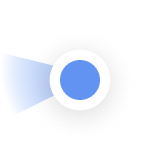
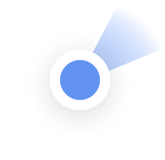
Update contact layout and animations: switch text/marker order, add -3% letter spacing, update location marker animation to 30° rotation, 2 rotations

Changed region(s): [[0.0625, 0.0938, 0.9375, 0.6875]]

diff --git a/codepen-animation.js b/codepen-animation.js
@@ -41,7 +41,7 @@ document.addEventListener('DOMContentLoaded', function() {
     });
   });
 
-  // Hero Right Animation - starts after hero titles
+  // Hero Right Animation - starts at the same time as hero titles
   const heroRight = document.querySelector('.hero .hero-right');
   if (heroRight) {
     // Get the hero-right elements
@@ -55,17 +55,45 @@ document.addEventListener('DOMContentLoaded', function() {
       y: 50
     });
     
-    // Calculate total duration of hero titles animation
-    const totalTitleDuration = heroTitles.length * 0.5 + 0.7; // delay + duration
-    
-    // Animate hero-right elements after titles complete
+    // Animate hero-right elements at the same time as titles
     gsap.to([heroAvatars, heroServicesText, heroEmailLink], {
       opacity: 1,
       y: 0,
       duration: 0.8,
       ease: "power2.out",
       stagger: 0.2,
-      delay: totalTitleDuration + 0.05 // Start 0.05s after titles finish
+      delay: 0 // Start immediately with titles
+    });
+  }
+
+  // Scroll-triggered Contact Section Animation - same as hero-right
+  const contactSection = document.querySelector('.contact');
+  if (contactSection) {
+    // Get the contact elements
+    const contactEmail = contactSection.querySelector('.contact-email');
+    const contactLocation = contactSection.querySelector('.contact-location');
+    
+    // Set initial state - hidden and below (same as hero-right)
+    gsap.set([contactEmail, contactLocation], {
+      opacity: 0,
+      y: 50
+    });
+    
+    // Animate contact elements when scrolled into view
+    gsap.to([contactEmail, contactLocation], {
+      opacity: 1,
+      y: 0,
+      duration: 0.8,
+      ease: "power2.out",
+      stagger: 0.2,
+      scrollTrigger: {
+        trigger: contactSection,
+        start: "top 80%", // Start when top of contact section is 80% up the viewport
+        onEnter: () => console.log('📧 Contact section entered viewport - starting animation!'),
+        onLeave: () => console.log('👋 Contact section left viewport'),
+        onEnterBack: () => console.log('📧 Contact section re-entered viewport'),
+        onLeaveBack: () => console.log('👋 Contact section left viewport (scrolling up)')
+      }
     });
   }
 
@@ -85,12 +113,13 @@ document.addEventListener('DOMContentLoaded', function() {
     console.log('🎬 Setting up 3pm rotation animation...');
     
     gsap.to(locationMarker, {
-      rotation: 90, // Rotate to 3pm position
+      rotation: 30, // Rotate to 30 degrees
       duration: 3,
       ease: "power2.inOut",
       yoyo: true,
-      repeat: -1,
-      onStart: () => console.log('🔄 3pm rotation animation started!')
+      repeat: 1, // Rotate 2 times (1 repeat = 2 total rotations)
+      onStart: () => console.log('🔄 30° rotation animation started!'),
+      onComplete: () => console.log('✅ Location marker animation completed!')
     });
     
     console.log('🎬 Animation setup complete!');

diff --git a/styles.css b/styles.css
@@ -21,20 +21,7 @@ body {
 
 img, svg { display: block; max-width: 100%; }
 
-/* Header */
-.site-header {
-  height: 80px;
-  display: flex;
-  align-items: center;
-  padding-top: 40px;
-  display: none;
-}
-.header-content {
-  display: flex;
-  flex-direction: column;
-  align-items: flex-start;
-  gap: 0rem;
-}
+
 
 
 .container {
@@ -223,6 +210,7 @@ img, svg { display: block; max-width: 100%; }
   line-height: 1.2;
   margin: 0;
   font-weight: 400;
+  letter-spacing: -3%;
 }
 
 .projects-row .project-category {
@@ -238,6 +226,7 @@ img, svg { display: block; max-width: 100%; }
   line-height: 1.2;
   margin: 0 0 24px 0;
   max-width: 60vw;
+  letter-spacing: -3%;
 }
 .about-header {
   display: flex;
@@ -252,6 +241,7 @@ img, svg { display: block; max-width: 100%; }
   margin: 0;
   color: var(--text);
   text-transform: lowercase;
+  letter-spacing: -3%;
 }
 .about-header .hero-email {
   font-size: clamp(1.8rem, 2.5vw + 1rem, 3rem);
@@ -261,6 +251,7 @@ img, svg { display: block; max-width: 100%; }
   transition: opacity 0.3s ease;
   border-bottom: 2px solid var(--underline);
   padding-bottom: 0.2em;
+  letter-spacing: -3%;
 }
 .about-header .hero-email:hover {
   opacity: 0.7;
@@ -284,6 +275,7 @@ img, svg { display: block; max-width: 100%; }
   margin: 0;
   font-size: 24px;
   color: black;
+  letter-spacing: -3%;
 }
 .avatar {
   width: clamp(48px, 8vw, 80px);
@@ -313,6 +305,7 @@ img, svg { display: block; max-width: 100%; }
   word-wrap: break-word;
   overflow-wrap: break-word;
   hyphens: auto;
+  letter-spacing: -3%;
 }
 .contact-email:hover {
   opacity: 0.7;
@@ -322,20 +315,21 @@ img, svg { display: block; max-width: 100%; }
   display: flex;
   align-items: center;
   justify-content: center;
-  gap: 0;
+  gap: 8px;
   margin-top: 2rem;
 }
 
 .location-marker {
-  width: 40px;
-  height: 40px;
+  width: 60px;
+  height: 60px;
+  margin-left: -16px;
 }
 
 .location-text {
   color: var(--muted);
-  font-size: 1.2rem;
+  font-size: 1.8rem;
   font-weight: 400;
-  margin-left: -8px;
+  letter-spacing: -3%;
 }
 
 

diff --git a/index.html b/index.html
@@ -9,19 +9,10 @@
   <link rel="preconnect" href="https://fonts.googleapis.com">
   <link rel="preconnect" href="https://fonts.gstatic.com" crossorigin>
   <link href="https://fonts.googleapis.com/css2?family=Inter:wght@300;400;500;600;700&display=swap" rel="stylesheet">
-  <link rel="stylesheet" href="styles.css?v=93">
+  <link rel="stylesheet" href="styles.css?v=103">
 </head>
 <body>
   
-  <header class="site-header">
-    <div class="container">
-      <div class="header-content">
-        <p class="hero-services">design services</p>
-        <a href="mailto:hello@example.com" class="hero-email">hello@example.com</a>
-      </div>
-    </div>
-  </header>
-
   <main id="top">
     <section class="hero">
       <div class="container">
@@ -98,8 +89,8 @@
       <div class="container">
         <a href="mailto:hello@example.com" class="contact-email">hello@example.com</a>
         <div class="contact-location">
+          <span class="location-text">Warsaw</span>
           <img src="assets/Current-Location-Marker.png" alt="Location marker" class="location-marker">
-          <span class="location-text">Warszawa • Praga Północ</span>
         </div>
       </div>
     </section>
@@ -109,6 +100,6 @@
   <script src="https://cdnjs.cloudflare.com/ajax/libs/gsap/3.12.2/gsap.min.js"></script>
   <script src="https://cdnjs.cloudflare.com/ajax/libs/gsap/3.12.2/ScrollTrigger.min.js"></script>
   <script src="script.js" defer></script>
-  <script src="codepen-animation.js?v=29" defer></script>
+  <script src="codepen-animation.js?v=34" defer></script>
 </body>
 </html>
